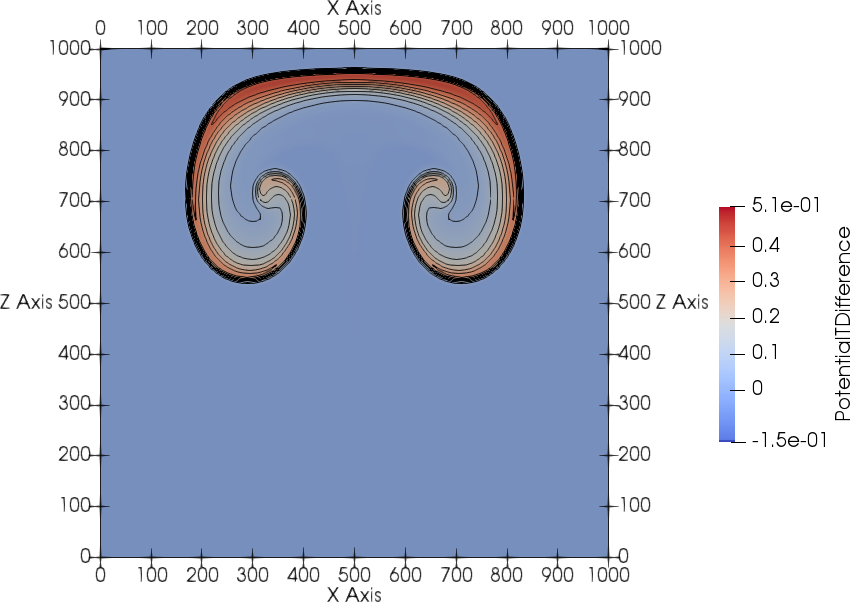
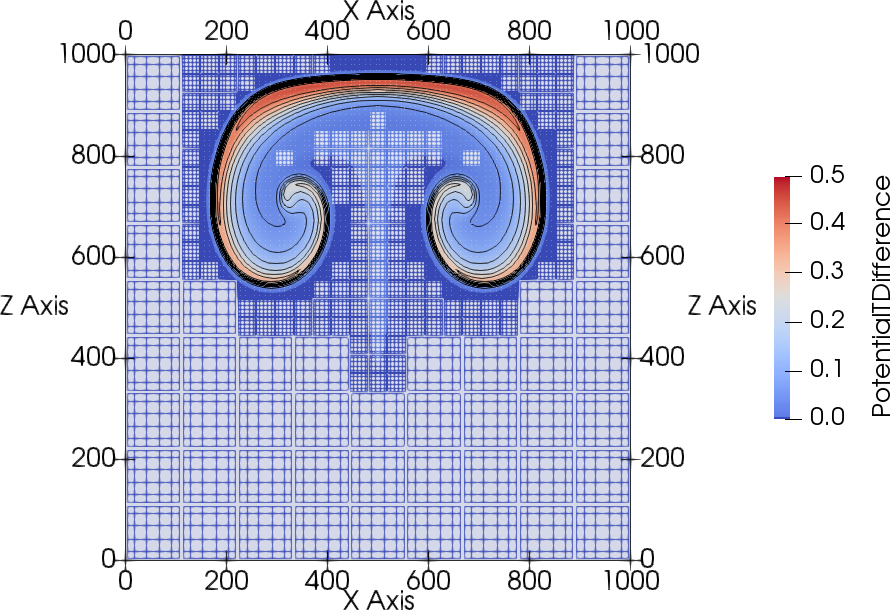
Improve figures, ticks now readable.

diff --git a/writing/paper/paper.tex b/writing/paper/paper.tex
@@ -135,7 +135,7 @@ Regarding the issue of limiting in high-order \dg{} methods, we note that viscos
 
 We base our work on the \exahypeengine{} (\url{www.exahype.eu}), which is a framework that can solve arbitrary hyperbolic \pde\ systems.
 A user of the engine is provided with a simple code interface which mirrors the parts required to formulate a well-posed Cauchy problem for a system of hyperbolic \pde{}s of first order.
-The underlying \aderdg{} method\todo{\muscl{}?}, parallelization techniques and dynamic adaptive mesh refinement are available for simulations while the implementations are left as a black box to the user.
+The underlying \aderdg{} method, parallelization techniques and dynamic adaptive mesh refinement are available for simulations while the implementations are left as a black box to the user.
 An introduction to the communication-avoiding implementation of the whole numerical scheme can be found in~\cite{charrier2018stop}.
 
 To summarize, we make the following contributions in this paper:%
@@ -410,7 +410,7 @@ Our results (\cref{fig:abc-flow}) show a good agreement between the analytical s
   \centering
     \includegraphics[width=\textwidth]{paper_two_bubbles_fv}
     \captionof{figure}{\label{fig:two-bubbles-fv}%
-    Colliding bubbles with \muscl{}}
+    Colliding bubbles with \muscl{}. Contour values for potential temperature pertubation are $-0.05, 0.05, 0.1, \ldots 0.45$.}
 \end{minipage}
 \end{figure}
 
@@ -473,7 +473,7 @@ Hence, it is difficult to compare the parametrization directly.
 We ran this scenario twice: once without \amr{} and a mesh of size $\SI{1000/81}{\m} = \SI{12.35}{\m}$ and 
 once with \amr{} with two adaptive refinement levels and parameters $\Trefine = 2.5$ and $\Tdelete = -0.5$.
 We specialize the \amr{}-criterion~\pcref{eq:refinement-criterion} to our stratified flows by using the potential temperature.
-This resulted in a mesh with cell-size lengths of approx.\ $\SI{111.1}{\m}, \SI{37.04}{\m}, \SI{12.34}{\m}$.
+This resulted in a mesh with cell-size lengths of approx.\ \SI{111.1}{\m}, \SI{37.04}{\m}, and \SI{12.34}{\m}.
 The resulting mesh can be observed in \cref{fig:two-bubbles-ader}.
 We observe that the $L_2$ difference between the potential temperature of the \amr{} run, which uses 1953 cells, and the one of the fully refined run with 6561 cells, is only $1.87$.
 The relative error is \num{6.69e-6}.
@@ -514,8 +514,8 @@ Our results (\cref{fig:cosine-3d}) capture the overall dynamics of the scenario 
 
 \begin{figure}[tb]
   \centering
-  \includegraphics[width=1.0\textwidth]{paper_two_bubbles}
-  \caption{\label{fig:two-bubbles-ader}Colliding Bubbles \aderdg{}}
+  \includegraphics[width=0.90\textwidth]{paper_two_bubbles}
+  \caption{\label{fig:two-bubbles-ader}Colliding Bubbles \aderdg{}. Contour values for potential temperature pertubation are $-0.05, 0.05, 0.1, \ldots 0.45$.}
 \end{figure}
 
 \begin{figure}[tb]
@@ -523,7 +523,7 @@ Our results (\cref{fig:cosine-3d}) capture the overall dynamics of the scenario 
   \begin{subfigure}[t]{0.5\textwidth}
     \centering
     \includegraphics[width=\textwidth]{paper_cosine_bubble}
-    \caption{\label{fig:cosine-2d}2D Cosine Bubble}
+    \caption{\label{fig:cosine-2d}2D Cosine Bubble.}%todo: Contour lines?
   \end{subfigure}~%
   \begin{subfigure}[t]{0.5\textwidth}
     \centering
@@ -537,7 +537,7 @@ Our results (\cref{fig:cosine-3d}) capture the overall dynamics of the scenario 
 
 \section{Conclusion}
 We presented an implementation of an \aderdg{}-method and a \muscl{}-scheme with \amr{} for the Navier-Stokes equations, based on the \exahypeengine.
-Our implementation is capable of simulating different scenarios: \todo{LK: Flesh this out a tiny bit, mention properties of \amr{} criterion}
+Our implementation is capable of simulating different scenarios:
 We evaluated our method for standard \textsc{cfd} scenarios and achieved competitive results for all used scenarios.
 This is true for both two-dimensional scenarios (Taylor-Green vortex and lid-driven cavity) and for the three-dimensional \textsc{abc}-flow.
 
